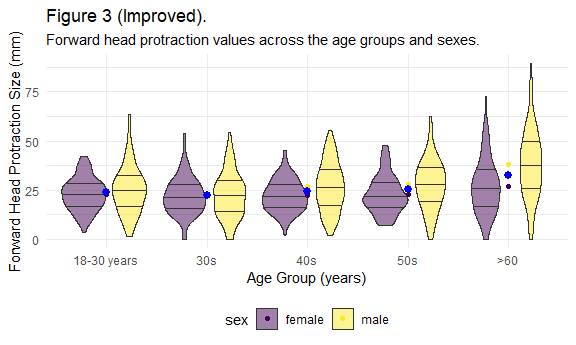
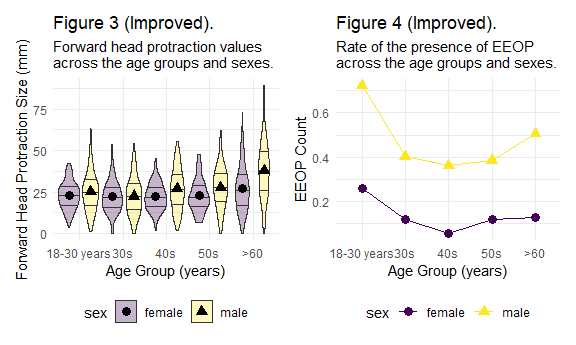
Finished Problem 2

diff --git a/p8105_mtp_ml4701.md b/p8105_mtp_ml4701.md
@@ -114,10 +114,14 @@ There’s some internal inconsistency within the dataset.
     variables. For example, definition for `eop_size` based on
     `eop_size_mm` was given as:
 
-eop\_size\|eop\_size\_mm\|
-
-\|——–:\|:———-\|: \|0 \| 0-5 \| \|1 \| 5-10 \| \|2 \| 10-15 \| \|3 \|
-15-20 \| \|4 \| 20-25 \| \|5 \| 25+ \|
+| eop\_size | eop\_size\_mm |
+|----------:|:--------------|
+|         0 | 0-5           |
+|         1 | 5-10          |
+|         2 | 10-15         |
+|         3 | 15-20         |
+|         4 | 20-25         |
+|         5 | 25+           |
 
 But whether dividing points (5,10…) belong to the former or latter group
 was not specified, which results in problems shown in the following
@@ -221,23 +225,12 @@ eop_df %>%
 |          5.00 | 1         | 0                      |
 |         12.10 | 3         | 2                      |
 
-### 2 - Visualizatio
+### 2 - Visualization
 
-In the original scientific report, Figures 3 and 4 show data or derived
-quantities. Both are flawed. Figure 3 shows only the mean and standard
-deviation for FHP, but does not show the distribution of the underlying
-data. Figure 4 shows the number of participants in each age and sex
-group who have an enlarged EOP (based on categorical EOP Size – groups 0
-and 1 vs groups 2, 3, 4, and 5). However, the number of participants in
-each age and sex group was controlled by the researchers, so the number
-with enlarged EOP in each group is not as informative as the rate of
-enlarged EOP in each group. Create a two-panel figure that contains
-improved versions of both of these. Although the authors are interested
-in how FHP size, age, and sex affect EOP size, no figure contains each
-of these. Create a 2 x 5 collection of panels, which show the
-association between FHP size and EOP size in each age and sex group.
-Comment on your plots with respect to the scientific question of
-interest.
+1.  *Figure 3 (Improved)* displays distribution of FHP size across age
+    and sex groups with violin plot,including major statistics quartiles
+    and means. *Figure 4 (Improved)* shows the rate of EEOP across age
+    and sex groups with a scatter plot.
 
 ``` r
 fhp_mean = eop_df %>% 
@@ -253,12 +246,8 @@ fhp_mean = eop_df %>%
                        labels = c("18-30 years","30s","40s","50s",">60"))) %>% 
   group_by(age_group,sex) %>% 
   summarize(fhp_mean = mean(fhp_size_mm,na.rm = TRUE))
-```
 
-    ## `summarise()` has grouped output by 'age_group'. You can override using the `.groups` argument.
-
-``` r
-eop_df %>% 
+fig3 = eop_df %>% 
   filter(age >= 18) %>% 
   mutate(
     age_group = case_when(
@@ -270,23 +259,91 @@ eop_df %>%
     age_group = factor(age_group, levels = c("2","3","4","5","6"),ordered = TRUE, 
                        labels = c("18-30 years","30s","40s","50s",">60"))) %>% 
   ggplot(aes(x = age_group,y = fhp_size_mm))+
-  geom_violin(aes(fill = sex),draw_quantiles =c(0.25,0.5,0.75), alpha = .5)+
-  geom_point(data = fhp_mean,aes(x = age_group, y = fhp_mean, color = sex))+
-  stat_summary(fun = "mean", color = "blue")+
+  geom_violin(aes(fill = sex),na.rm = TRUE,
+              draw_quantiles =c(0.25,0.5,0.75),
+              width = 1, position = position_dodge(), 
+              alpha = .3,size = .5)+
+  geom_point(data = fhp_mean,aes(x = age_group, y = fhp_mean,shape = sex),
+              size = 3,alpha = 1, position = position_dodge(width = 1))+
   labs(
     title= "Figure 3 (Improved). ",
-    subtitle = "Forward head protraction values across the age groups and sexes.",
+    subtitle = "Forward head protraction values \nacross the age groups and sexes.",
        x = "Age Group (years)",
        y = "Forward Head Protraction Size (mm)")
+
+fig4 = eop_df %>% 
+  filter(age >= 18) %>% 
+  mutate(
+    age_group = case_when(
+      age <= 30 ~ "2",
+      (age > 30) &(age <= 40) ~ "3",
+      (age > 40) &(age <= 50) ~ "4",
+      (age > 50) &(age <= 60) ~ "5",
+      (age > 60)~ "6"),
+    age_group = factor(age_group, levels = c("2","3","4","5","6"),ordered = TRUE, 
+                       labels = c("18-30 years","30s","40s","50s",">60")),
+    eop_size = case_when(
+      eop_size_mm <= 5 ~ 0,
+      (eop_size_mm > 5 ) &(eop_size_mm <= 10) ~ 1,
+      (eop_size_mm > 10) &(eop_size_mm <= 15) ~ 2,
+      (eop_size_mm > 15) &(eop_size_mm <= 20) ~ 3,
+      (eop_size_mm > 20) &(eop_size_mm <= 25) ~ 4,
+      eop_size_mm > 25 ~ 5),
+    eeop = case_when(eop_size <= 1 ~ 0,
+                     eop_size > 1 ~1) 
+    ) %>%
+  group_by(age_group,sex) %>% 
+  summarize(group_total = n(),EEOP_count = sum(eeop),
+            rate = EEOP_count/group_total) %>% 
+  ggplot(aes(x = age_group, y = rate,group = sex,shape = sex,color = sex))+
+    geom_point(size = 3)+
+    geom_line()+
+    labs(
+      title= "Figure 4 (Improved). ",
+      subtitle = "Rate of the presence of EEOP \nacross the age groups and sexes.",
+         x = "Age Group (years)",y = "EEOP Count")
+
+fig3+fig4
 ```
 
-    ## Warning: Removed 6 rows containing non-finite values (stat_ydensity).
-
-    ## Warning: Removed 6 rows containing non-finite values (stat_summary).
-
-    ## Warning: Removed 5 rows containing missing values (geom_segment).
-
 <img src="p8105_mtp_ml4701_files/figure-gfm/unnamed-chunk-5-1.png" width="90%" />
+
+2.  From the following plot, no clear trend is seen either accross `age`
+    and `sex` groups, or between `eop_size_mm` and `fhp_size_mm`, so EOP
+    size may not be associated with FHP size, gender or age.
+
+``` r
+eop_df %>% 
+  select(age,sex,eop_size_mm,fhp_size_mm) %>% 
+  drop_na() %>%
+  filter(age >= 18) %>% 
+  mutate(
+    age_group = case_when(
+      age <= 30 ~ "2",
+      (age > 30) &(age <= 40) ~ "3",
+      (age > 40) &(age <= 50) ~ "4",
+      (age > 50) &(age <= 60) ~ "5",
+      (age > 60)~ "6"),
+    age_group = factor(age_group, levels = c("2","3","4","5","6"),ordered = TRUE, 
+                       labels = c("18-30 years","30s","40s","50s",">60")),
+    eop_size = case_when(
+      eop_size_mm <= 5 ~ 0,
+      (eop_size_mm > 5 ) &(eop_size_mm <= 10) ~ 1,
+      (eop_size_mm > 10) &(eop_size_mm <= 15) ~ 2,
+      (eop_size_mm > 15) &(eop_size_mm <= 20) ~ 3,
+      (eop_size_mm > 20) &(eop_size_mm <= 25) ~ 4,
+      eop_size_mm > 25 ~ 5),
+    eeop = case_when(eop_size <= 1 ~ "non-EEOP",
+                     eop_size > 1 ~"EEOP") ) %>%
+  ggplot(aes(x = fhp_size_mm,y = eop_size_mm,color = eeop))+
+    geom_point(alpha = .6,size = 2)+
+    facet_grid(sex~age_group)+
+    labs(
+      subtitle= "Association between FHP size and EOP size across age and sex groups ",
+         x = "FHP size (mm)",y = "EOP size (mm)",color = "EEOP status")
+```
+
+<img src="p8105_mtp_ml4701_files/figure-gfm/unnamed-chunk-6-1.png" width="90%" />
 
 ``` r
 wordcountaddin::text_stats("p8105_mtp_ml4701.Rmd")
@@ -305,9 +362,9 @@ wordcountaddin::text_stats("p8105_mtp_ml4701.Rmd")
     ## 
     ##     tokenize
 
-| Method          | koRpus    | stringi       |
-|:----------------|:----------|:--------------|
-| Word count      | 605       | 527           |
-| Character count | 3471      | 3470          |
-| Sentence count  | 49        | Not available |
-| Reading time    | 3 minutes | 2.6 minutes   |
+| Method          | koRpus      | stringi       |
+|:----------------|:------------|:--------------|
+| Word count      | 502         | 432           |
+| Character count | 2924        | 2924          |
+| Sentence count  | 44          | Not available |
+| Reading time    | 2.5 minutes | 2.2 minutes   |
